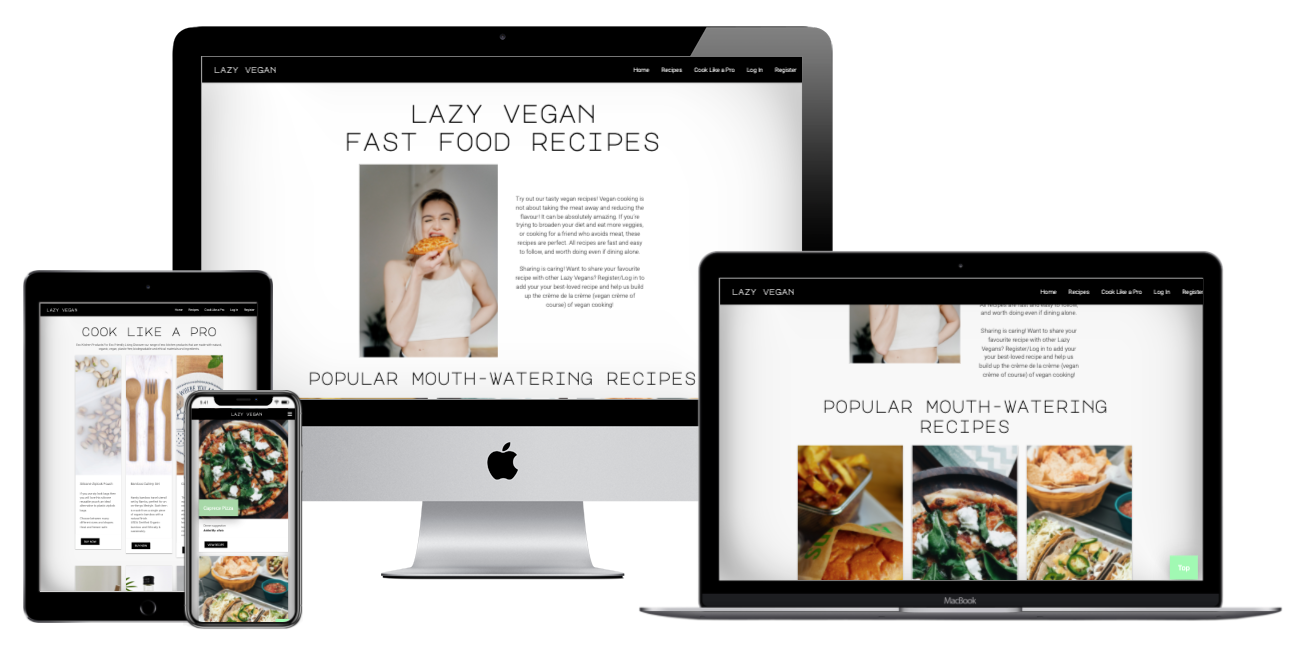
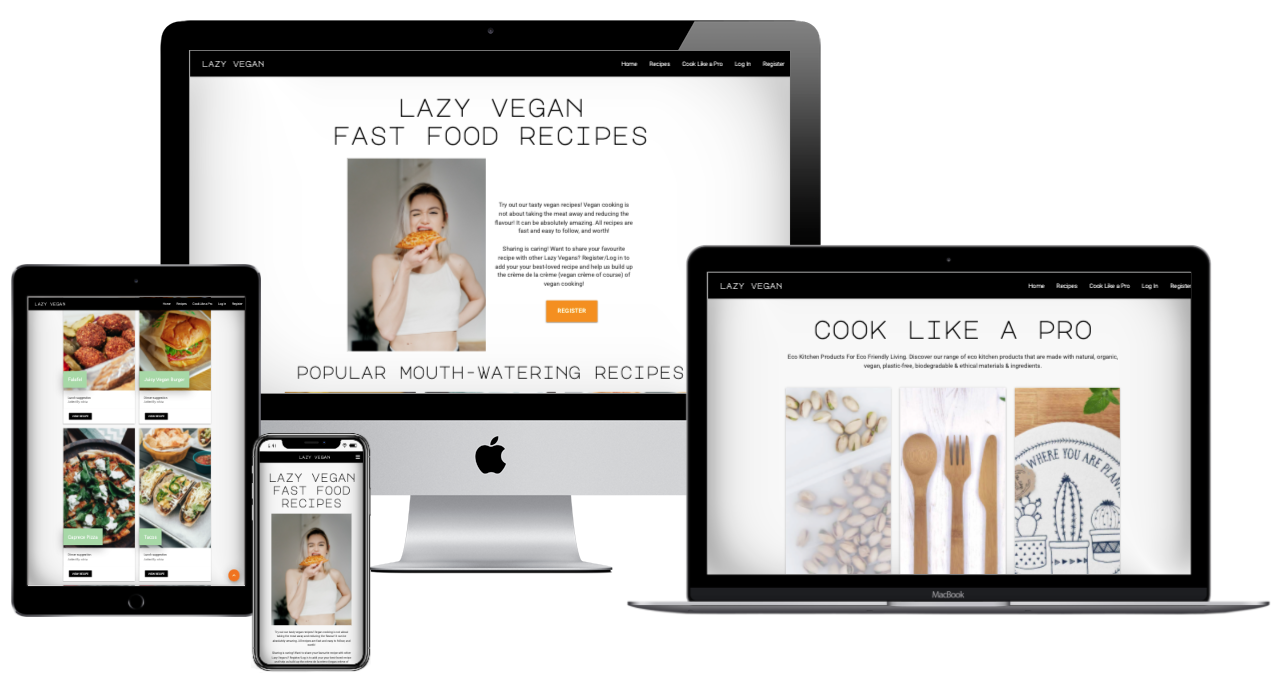
Add new mock-up image of all deviced

diff --git a/static/css/style.css b/static/css/style.css
@@ -73,13 +73,13 @@ main {
 	float: left;
 }
 
-.home-text {
-	padding-top: 130px;
+/*.home-text {
+	padding-top: 30px;
 }
 
 .register-btn {
 	padding-top: 30px;
-	padding-left: 170px;
+	padding-left: 100px;
 }
 
 /* RECIPE PAGE*/
@@ -249,18 +249,32 @@ padding-bottom: 30px;
 }
 
 /* Media queries */
-/* Desktop */
-@media screen and (max-width: 1200px) {
+/* Desktop extra large screens*/
+@media screen and (max-width: 2000px) {
 	.register-btn {
-		padding-left: 0px;
-		padding-top: 0px;
+		padding-left: 140px;
+		padding-top: 15px;
+	}
+	.home-text {
+		padding-top: 90px;
+	}
+	}
+
+/* Desktop */
+@media screen and (max-width: 1300px) {
+	.register-btn {
+		padding-left: 100px;
+		padding-top: 1px;
+	}
+	.home-text {
+		padding-top: 15px;
 	}
 	}
 
 /* Tablets Ipad*/
 @media screen and (max-width: 1024px) {
 	.register-btn {
-		padding-left: 70px;
+		padding-left: 90px;
 		padding-top: 1px;
 	}
 	.home-text {
